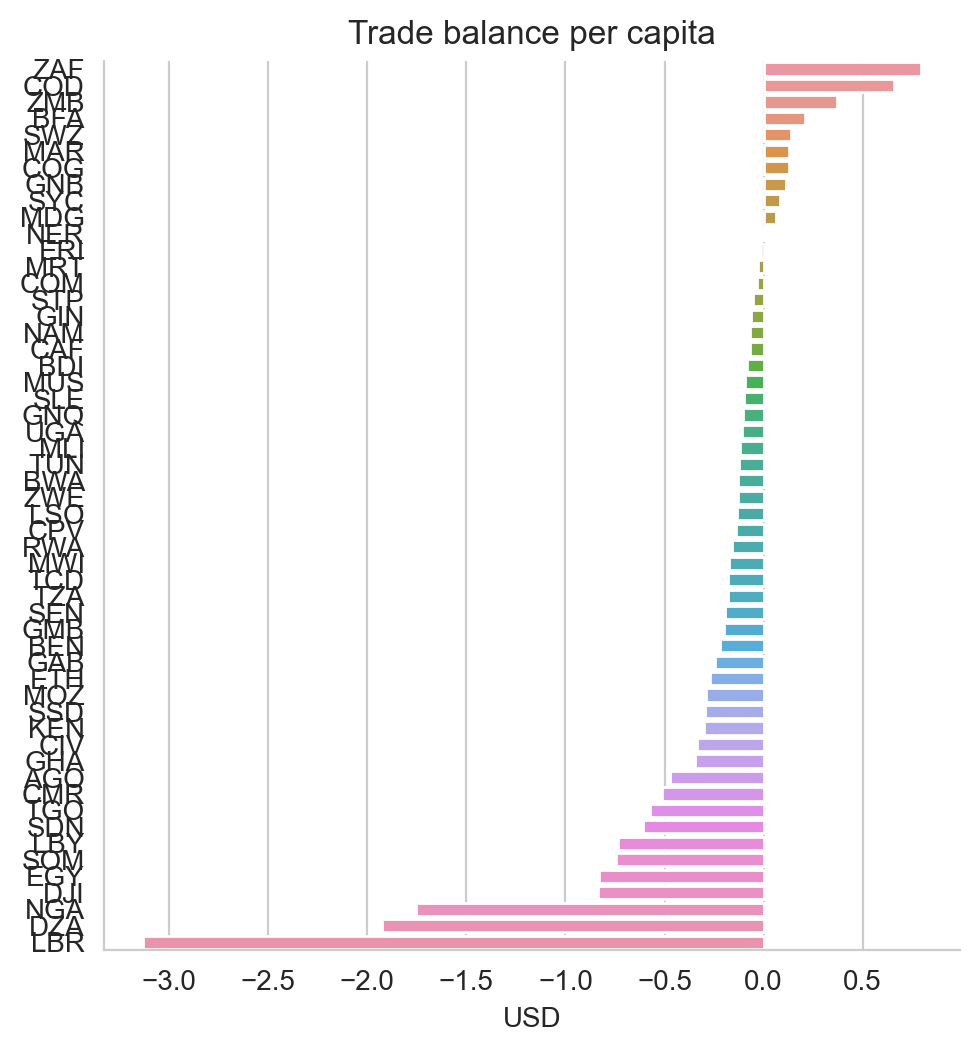
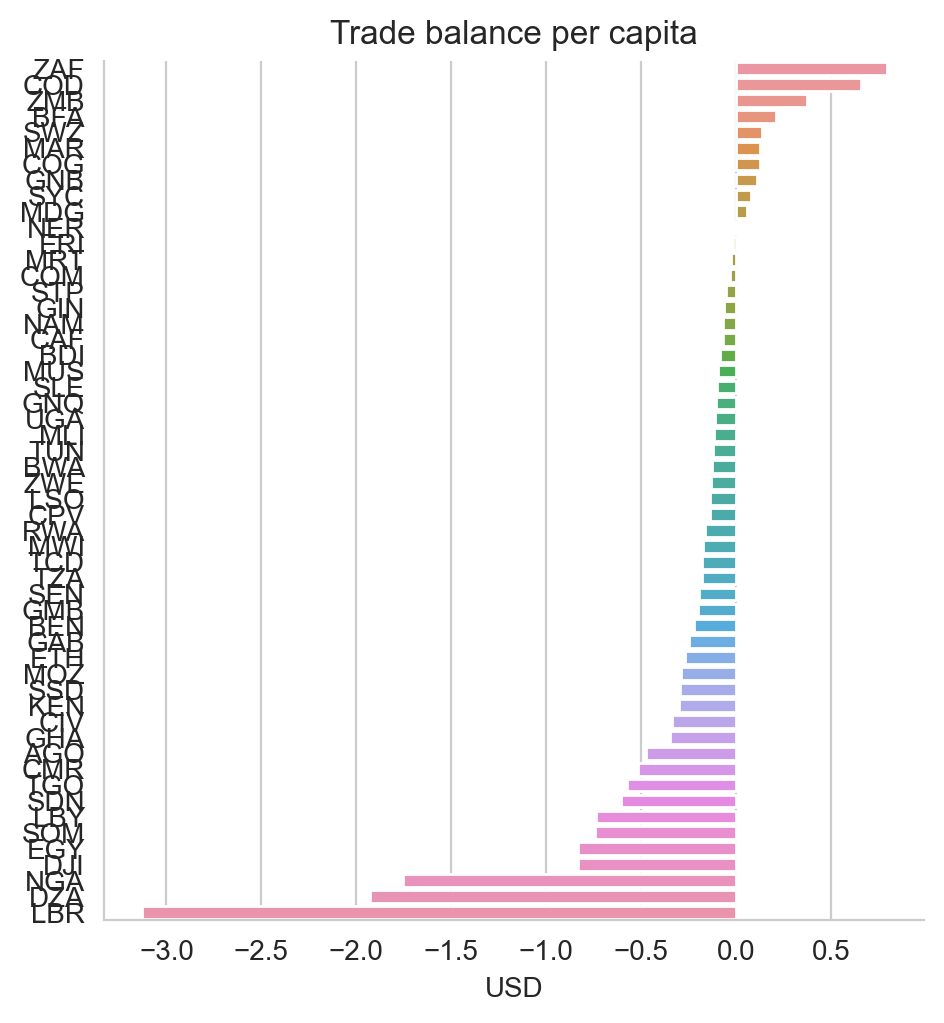
update all africa plot

Changed region(s): [[0.0307, 0.0, 0.9831, 0.9697], [0.768, 0.0606, 0.9216, 0.1818], [0.7373, 0.4242, 0.768, 0.4545]]

diff --git a/python/all_africa_debt_income_demogs.py b/python/all_africa_debt_income_demogs.py
@@ -61,22 +61,23 @@ all_countries_df_agg = (
     top10
     .groupby(['location_code'])
     .agg(
-        pl.col('trade_balance_millions').mean().alias('avg_trade_balance_millions')
+        pl.col('trade_balance_millions').mean().alias('avg_trade_balance_millions'), 
+        pl.col('trade_balance'.mean().alias("avg_trade_balance"))
         )
         .sort('avg_trade_balance_millions', reverse=True)
 )
-print(all_countries_df_agg.tail(20))
+print(top10.tail(20))
 
 # Convert polars table to png and save to output 
 # Write the code
-fig, ax = plt.subplots(figsize=(8, 8))
-sns.set_style("whitegrid")
+# fig, ax = plt.subplots(figsize=(8, 8))
+# sns.set_style("whitegrid")
 
-sns.factorplot(x='avg_trade_balance_millions', y='location_code', data=all_countries_df_agg.to_pandas(), kind='bar')
-plt.title('Trade balance per capita')
-plt.xlabel('USD')
-plt.ylabel('')
-plt.savefig('../output/trade_bal_by_population_allafrica.png', dpi=200, bbox_inches='tight')
+# sns.catplot(x='avg_trade_balance_millions', y='location_code', data=all_countries_df_agg.to_pandas(), kind='bar')
+# plt.title('Trade balance per capita')
+# plt.xlabel('USD')
+# plt.ylabel('')
+# plt.savefig('../output/trade_bal_by_population_allafrica.png', dpi=200, bbox_inches='tight')
 
 
 # Convert polars table to png and save to output 
